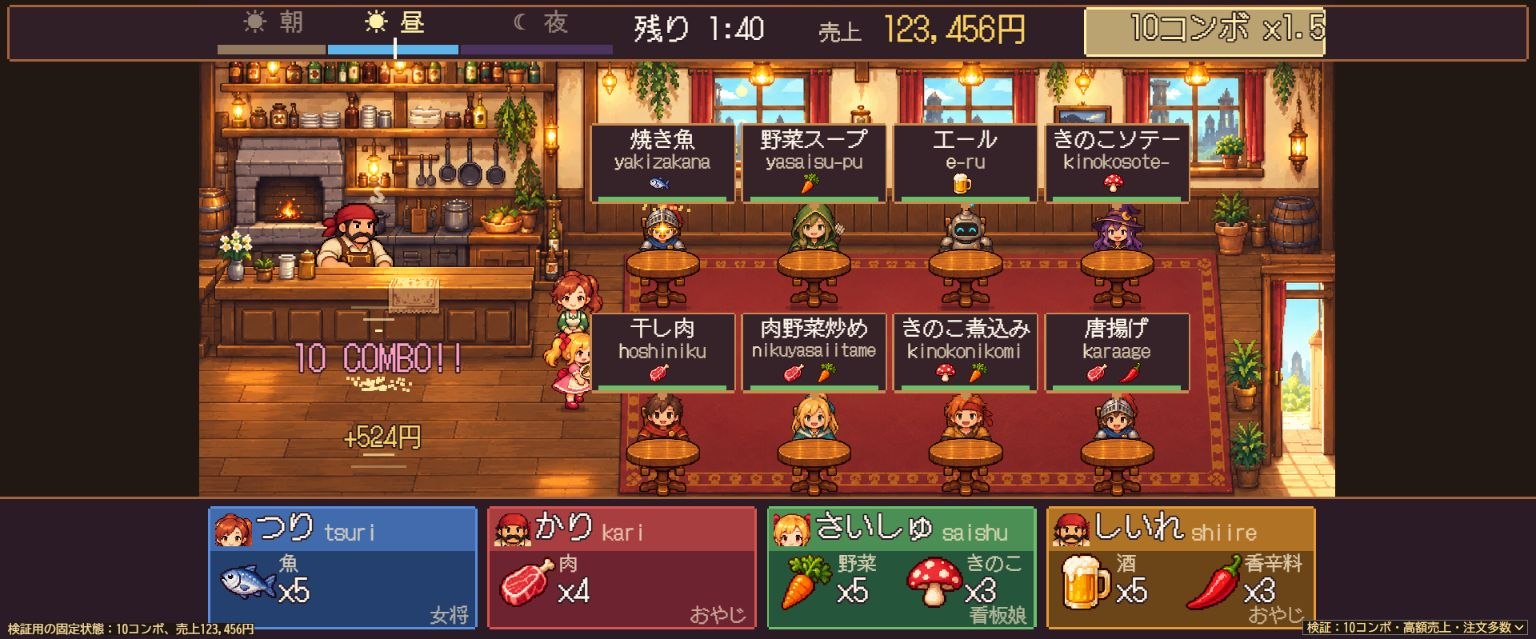
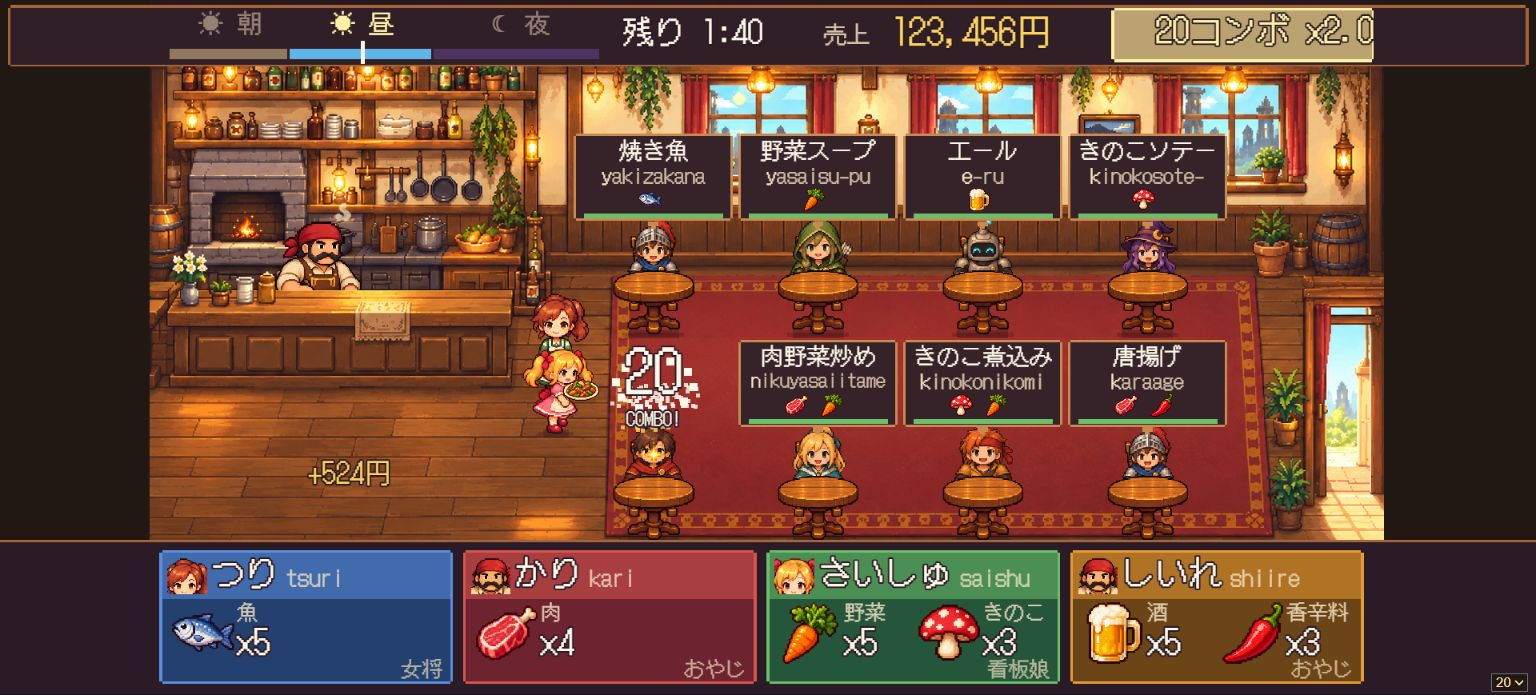
Anchor combo feedback to served orders and sustain five-combo effect tiers

diff --git a/src/ui/shopView.ts b/src/ui/shopView.ts
@@ -1,3 +1,4 @@
+import { comboFx } from './comboFx';
 import { C, TRIP_COLOR, type Color } from './palette';
 import { Screen, LW } from './screen';
 import { FAM, guestSprite, ICON, PORTRAIT, WALKERS } from './sprites';
@@ -33,8 +34,9 @@ interface Server {
 }
 interface Exit { look: number; x: number; y: number; start: number; distance: number; path: { x: number; y: number }[] }
 interface Fx { anim: string; x: number; y: number; h: number; start: number }
-interface Pop { x: number; y: number; t: number; text: string; col: Color; big?: boolean; slot?: string }
-interface Spark { x: number; y: number; vx: number; vy: number; t: number; col: Color }
+interface Pop { x: number; y: number; t: number; text: string; col: Color; big?: boolean; slot?: string; count?: number }
+interface FxBounds { x: number; y: number; w: number; h: number }
+interface Spark { bounds?: FxBounds; x: number; y: number; vx: number; vy: number; t: number; col: Color }
 
 /** 営業画面の見た目の状態（演出用。ゲームの計算には影響しない） */
 export class ShopView {
@@ -57,6 +59,8 @@ export class ShopView {
   sparks: Spark[] = [];
   missFlash = 0;
   comboBurst = 0;
+  comboAnchor = { x: 0, y: 0 };
+  comboCount = 0;
   lackTrip: { id: TripId; t: number } | null = null;
   gotTrip: { id: TripId; t: number; gains: Partial<Record<IngredientId, number>> } | null = null;
   /** 出かけている／帰ってきた家族のひとこと */
@@ -90,10 +94,15 @@ export class ShopView {
           }
         }
         if (ev.combo >= 3) {
-          this.comboBurst = ev.combo % 10 === 0 ? 1.2 : 0.7;
-          const milestone = ev.combo % 10 === 0;
-          this.sparkAt({ x: 76, y: 166 }, C.gold3, milestone ? 55 : Math.min(24, ev.combo), milestone ? 135 : 70);
-          this.pop('combo', { x: 76, y: 145, t: 0, text: milestone ? `${ev.combo} COMBO!!` : `${ev.combo} COMBO`, col: milestone ? C.pink : C.gold3 });
+          const fx = comboFx(ev.combo);
+          const y = seat.ty - (this.art ? ORDER_CARD.offset : 70);
+          this.comboCount = ev.combo;
+          this.comboAnchor = { x: seat.x, y: y + 17 };
+          this.comboBurst = fx.duration;
+          const col = fx.level >= 3 ? C.w : fx.level === 2 ? C.pink : C.gold3;
+          this.sparkAt({ x: seat.x, y: y + 28 }, col, fx.particles, fx.spread,
+            { x: seat.x - 30, y, w: 60, h: 58 });
+          this.pop('combo', { x: seat.x, y, t: 0, text: `${ev.combo} COMBO`, col, count: ev.combo });
         }
         this.stirUntil = this.time + 2.4;
         this.fxs.push({ anim: 'きらめき', x: seat.x, y: seat.ty - 8, h: 22, start: this.time });
@@ -150,9 +159,9 @@ export class ShopView {
     return { x: 60 + i * 118, y: 222 };
   }
 
-  private sparkAt(p: { x: number; y: number }, col: Color, n: number, spread = 30) {
+  private sparkAt(p: { x: number; y: number }, col: Color, n: number, spread = 30, bounds?: FxBounds) {
     for (let i = 0; i < n; i++) {
-      this.sparks.push({ x: p.x + (Math.random() - 0.5) * 20, y: p.y, vx: (Math.random() - 0.5) * spread, vy: -20 - Math.random() * spread / 2, t: 0, col });
+      this.sparks.push({ bounds, x: p.x + (Math.random() - 0.5) * 20, y: p.y, vx: (Math.random() - 0.5) * spread, vy: -20 - Math.random() * spread / 2, t: 0, col });
     }
   }
 
@@ -576,17 +585,35 @@ export class ShopView {
   }
 
   private drawFx(sc: Screen, shop: Shop) {
-    for (const p of this.sparks) sc.PR(p.x, p.y, 1.5, 1.5, p.col, 1 - p.t / 0.7);
-    if (this.comboBurst > 0) {
-      const a = Math.min(1, this.comboBurst);
-      for (let i = 0; i < 3; i++) {
-        const r = (1.2 - this.comboBurst) * 20 + i * 5;
-        sc.PR(76 - r, 141 - r, r * 2, 1, C.gold3, a * (1 - i / 3));
-        sc.PR(76 - r, 185 + r, r * 2, 1, C.gold3, a * (1 - i / 3));
-      }
-
+    for (const p of this.sparks) {
+      const draw = () => sc.PR(p.x, p.y, 1.5, 1.5, p.col, 1 - p.t / 0.7);
+      if (p.bounds) sc.clip(p.bounds.x, p.bounds.y, p.bounds.w, p.bounds.h, draw);
+      else draw();
     }
-    for (const p of this.pops) sc.TB(p.text, p.x, p.y - p.t * 16, p.slot === 'combo' ? sc.fitSize(p.text, 15, 134) : p.big ? 12 : 11, p.col, 'center', C.ink, Math.min(1, (1.3 - p.t) * 3));
+    if (this.comboBurst > 0) {
+      const fx = comboFx(this.comboCount);
+      const age = fx.duration - this.comboBurst;
+      const a = Math.min(1, this.comboBurst * 2);
+      const { x, y } = this.comboAnchor;
+      const col = fx.level >= 3 ? C.w : fx.level === 2 ? C.pink : C.gold3;
+      sc.clip(x - 30, y - 17, 60, 34, () => {
+        for (let i = 0; i < fx.rays; i++) {
+          const angle = i * Math.PI * 2 / fx.rays + age * 0.8;
+          const r = 14 + age * 9;
+          const xx = x + Math.cos(angle) * r, yy = y + Math.sin(angle) * r * 0.65;
+          sc.PR(xx - 1, yy - 1, fx.level >= 3 ? 3 : 2, fx.level >= 2 ? 3 : 2, col, a);
+        }
+      });
+    }
+    for (const p of this.pops) {
+      const a = Math.min(1, (1.3 - p.t) * 3);
+      if (p.slot === 'combo' && p.count !== undefined) {
+        const fx = comboFx(p.count);
+        // 完了して空いた注文枠内に収め、隣の未完了の注文を隠さない。
+        sc.TB(String(p.count), p.x, p.y + 1, sc.fitSize(String(p.count), Math.min(22, 16 + fx.level * 2) + Math.max(0, 1 - p.t * 7) * 2, 54), p.col, 'center', C.ink, a);
+        sc.TB('COMBO' + (fx.level ? '!' : ''), p.x, p.y + 27, 7, p.col, 'center', C.ink, a);
+      } else sc.TB(p.text, p.x, p.y - p.t * 16, p.big ? 12 : 11, p.col, 'center', C.ink, a);
+    }
     if (this.banner) {
       const tw = sc.W(this.banner.text, 11) + 24;
       sc.panel(LW / 2 - tw / 2, 30, tw, 20, 'rgba(42,27,38,0.95)', C.gold, Math.min(1, this.banner.t * 3));

diff --git a/tests/amber-delivery.test.ts b/tests/amber-delivery.test.ts
@@ -130,9 +130,23 @@ describe('連続操作中の文字表示', () => {
     const view = new ShopView();
     for (let combo = 3; combo <= 20; combo++) view.handle({ type: 'serve', seat: 0, gain: 120, combo }, shop);
     expect(view.pops).toHaveLength(2);
-    expect(view.pops.find(p => p.slot === 'combo')?.text).toBe('20 COMBO!!');
+    expect(view.pops.find(p => p.slot === 'combo')?.text).toBe('20 COMBO');
     expect(view.pops.find(p => p.slot === 'income')?.text).toBe('+120円');
-    for (const p of view.pops) expect(p.x).toBeLessThan(140); // 客席の注文枠から離す
+    expect(view.pops.find(p => p.slot === 'combo')?.x).toBe(TAVERN_SEATS[0].x);
+    expect(view.pops.find(p => p.slot === 'income')?.x).toBeLessThan(140);
+  });
+
+  it('コンボは直前に完了した注文の位置へ移動する', () => {
+    const shop = new Shop(new Rng(1)), view = new ShopView();
+    view.art = {} as Art;
+    shop.seats = TAVERN_SEATS.map((_, i) => ({ id: i, dish: DISHES[0], look: 0, wait: 30, maxWait: 30, state: 'eat', t: 4, lack: 0 }));
+    for (const seat of [0, 7, 2, 4]) {
+      view.handle({ type: 'serve', seat, gain: 120, combo: 11 }, shop);
+      const p = view.pops.find(p => p.slot === 'combo')!;
+      expect(p.x).toBe(TAVERN_SEATS[seat].x);
+      expect(p.y).toBe(TAVERN_SEATS[seat].ty - ORDER_CARD.offset);
+      expect(view.pops.filter(p => p.slot === 'combo')).toHaveLength(1);
+    }
   });
 
   it('時間帯の通知はHUDへ浮き上がらず、固定の通知欄に表示する', () => {

diff --git a/src/ui/audio.ts b/src/ui/audio.ts
@@ -1,3 +1,4 @@
+import { comboFx } from './comboFx';
 // 電子音系の効果音とBGM（Web Audio で生成。音声ファイルは使っていない）
 import type { Settings } from '../core/save';
 
@@ -101,13 +102,14 @@ export class Sound {
     this.noise(t, 0.05, 0.06, this.sfx);
   }
 
-  /** 節目は上昇するファンファーレ。重ねても音量を急増させない。 */
+  /** 10以降は毎回ファンファーレ。５コンボごとに音数と和音を増やす。 */
   combo(count: number) {
     if (!this.ac || !this.sfx) return;
-    const t = this.ac.currentTime, milestone = count % 10 === 0;
-    const notes = milestone ? [0, 2, 4, 5, 7, 9] : [Math.min(8, Math.floor(count / 3)) + 3];
-    notes.forEach((n, i) => this.tone(this.note(n), t + i * 0.055, milestone ? 0.3 : 0.13, 'triangle', 0.06, this.sfx!));
-    if (milestone) this.noise(t, 0.08, 0.04, this.sfx);
+    const t = this.ac.currentTime, fx = comboFx(count);
+    fx.notes.forEach((n, i) => this.tone(this.note(n), t + i * 0.045, fx.level ? 0.24 : 0.13, 'triangle', 0.055, this.sfx!));
+    if (fx.level) this.noise(t, 0.06, 0.03, this.sfx);
+    if (fx.level >= 2) this.tone(this.note(2), t, 0.32, 'sine', 0.035, this.sfx);
+    if (fx.level >= 3) this.tone(this.note(4), t + 0.05, 0.34, 'sine', 0.03, this.sfx);
   }
 
   coin() {

diff --git a/tests/combo-fx.test.ts b/tests/combo-fx.test.ts
@@ -1,0 +1,22 @@
+import { describe, expect, it } from 'vitest';
+import { comboFx } from '../src/ui/comboFx';
+
+describe('５コンボごとの継続演出', () => {
+  it('10・15・20・25で上がり、その間の毎回も同じ豪華さを保つ', () => {
+    expect(comboFx(9).level).toBe(0);
+    for (const start of [10, 15, 20, 25, 30]) {
+      const fx = comboFx(start);
+      for (let count = start + 1; count < start + 5; count++) expect(comboFx(count)).toEqual(fx);
+      const previous = comboFx(start - 1);
+      expect(fx.level).toBeGreaterThan(previous.level);
+      expect(fx.particles).toBeGreaterThan(previous.particles);
+      expect(fx.notes.length).toBeGreaterThan(previous.notes.length);
+    }
+  });
+  it('非常に長く続いても描画・音の負荷を上限内に収める', () => {
+    const fx = comboFx(10000);
+    expect(fx.particles).toBeLessThanOrEqual(160);
+    expect(fx.rays).toBeLessThanOrEqual(12);
+    expect(fx.notes).toHaveLength(9);
+  });
+});

diff --git a/src/ui/comboFx.ts b/src/ui/comboFx.ts
@@ -1,0 +1,12 @@
+/** 10から毎回同じ段階を維持し、15・20・25…で一段ずつ豪華にする。 */
+export function comboFx(count: number) {
+  const level = count < 10 ? 0 : 1 + Math.floor((count - 10) / 5);
+  return {
+    level,
+    particles: level ? Math.min(160, 30 + level * 16) : Math.min(24, count),
+    spread: level ? Math.min(190, 85 + level * 20) : 70,
+    duration: level ? Math.min(1.3, 0.85 + level * 0.1) : 0.7,
+    rays: level ? Math.min(12, 4 + level * 2) : 0,
+    notes: level ? Array.from({ length: Math.min(9, 4 + level) }, (_, i) => i + Math.min(3, level - 1)) : [Math.min(8, Math.floor(count / 3)) + 3],
+  };
+}

diff --git a/docs/typing-flow-balance.md b/docs/typing-flow-balance.md
@@ -34,11 +34,11 @@
 
 ## コンボ・売上
 
-3コンボから大きな数字、金色の光・粒子・HUDの強調と追加音。10コンボごとに粒子を増やし、上昇するファンファーレを再生。連続通知は重ねず更新し、入力する注文を隠さない。営業中と結果画面の売上に「円」を付加。
+3コンボから、完了した注文枠の位置に数字を表示。10〜14コンボは金色の光・粒子と毎回のファンファーレ、15〜19はピンクの光・増量した粒子と追加の和音、20〜24は白い光・さらに多い粒子と厚い和音。25以降も5コンボごとに演出レベルが上がる。段階内では11・12…でも同じ演出を継続し、10の倍数だけ派手になる挙動を廃止。光と粒子は完了した注文の周囲に収め、隣の注文を隠さない。連続通知は最新の提供位置へ更新する。営業中と結果画面の売上に「円」を付加。
 
 ## 検証結果
 
-- 自動テスト397件成功。型検査を含む本番ビルド成功。
+- 自動テスト400件成功。型検査を含む本番ビルド成功。
 - 通常のタイトル→難易度選択→営業→釣りをブラウザーのキー操作で確認。
 - 検証用画面では、通常難易度・毎秒12打鍵で約5秒間に4匹、素材32個を獲得。そのまま次の合図を表示できることを確認。
 - 注文8件、10コンボ、売上123,456円の固定状態で、注文・通知・売上・コンボの文字が重ならないことを確認。
